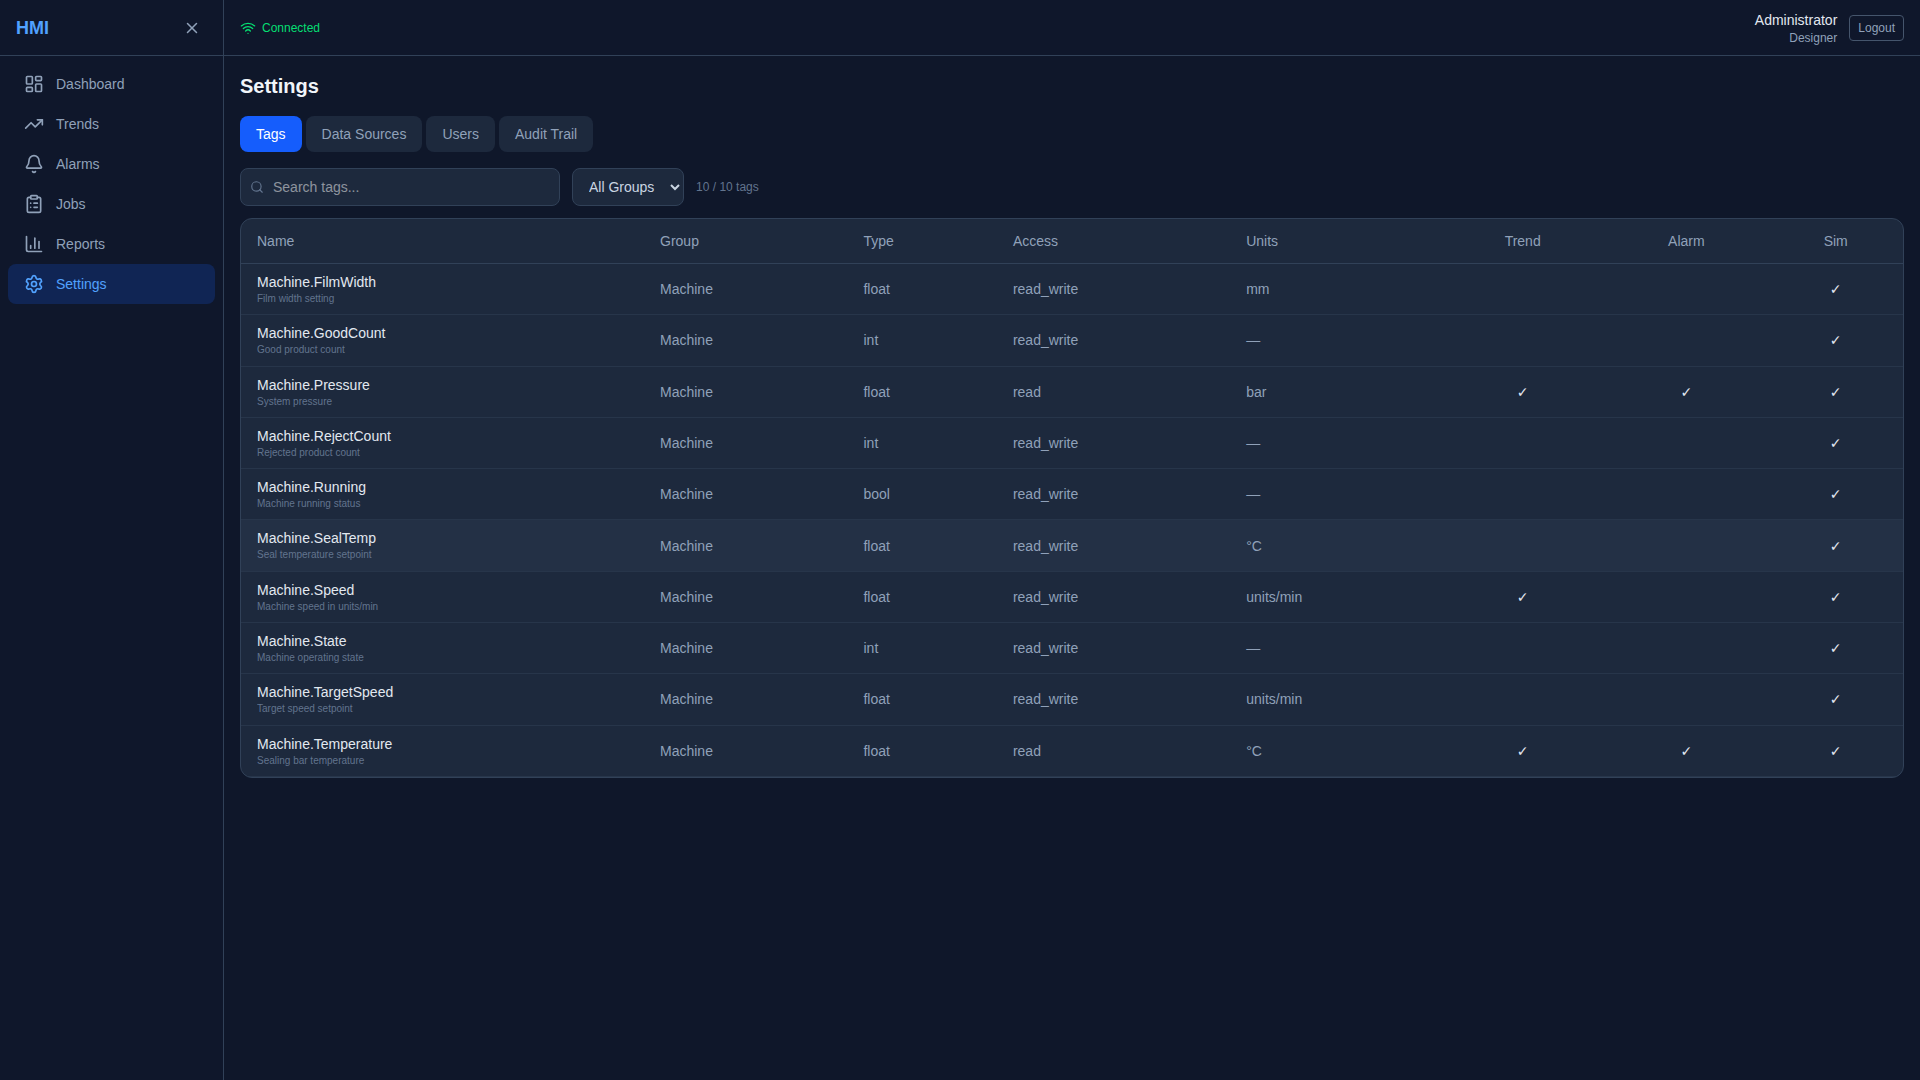
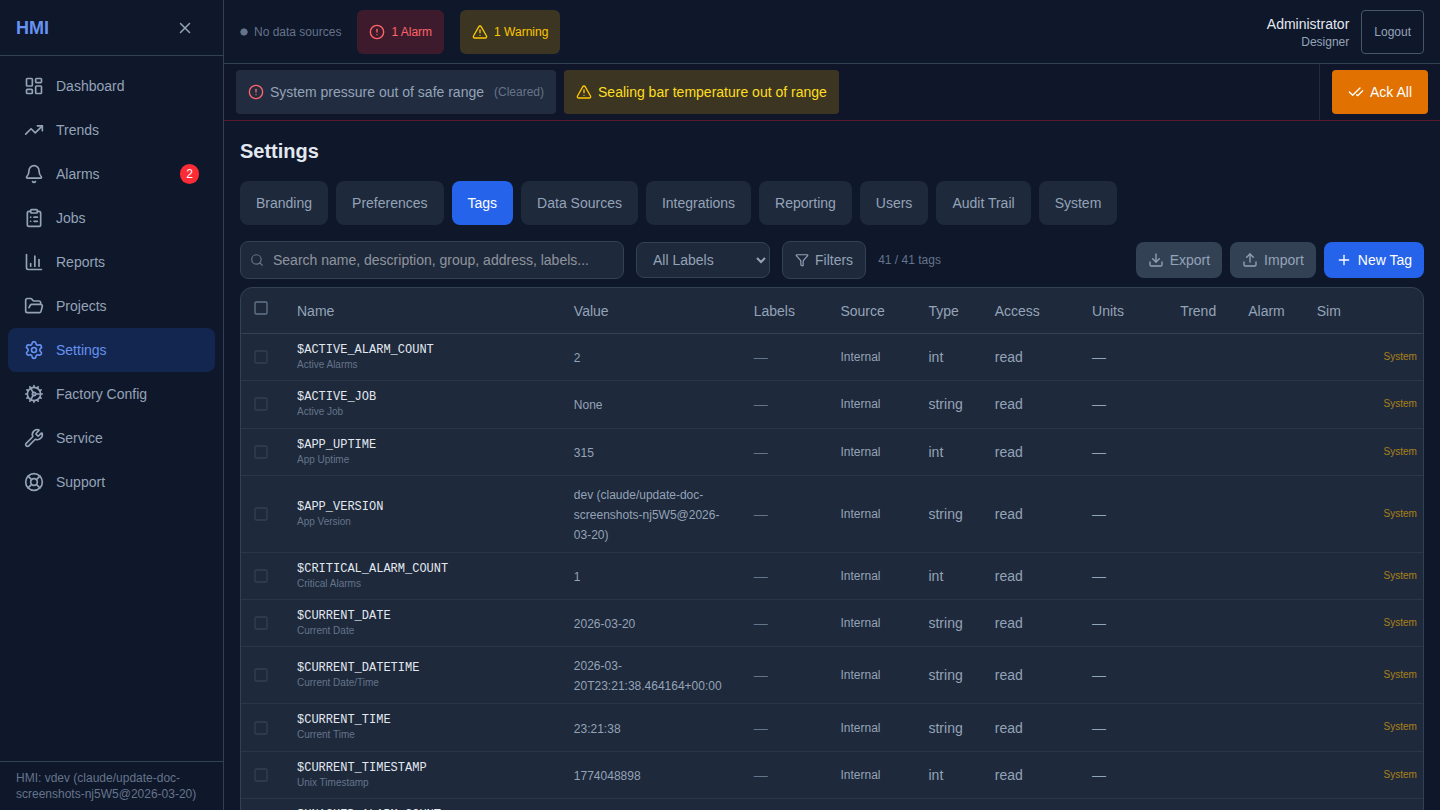
Update documentation screenshots to reflect current UI
Recaptured all 11 existing screenshots with the current application state
showing updated navigation (Projects, Factory Config, Service, Support
sidebar items), alarm banners, and refreshed data. Added 7 new screenshots
for pages added since the original captures: Projects, Service, Factory
Config, Support, Settings — Data Sources, Settings — Integrations, and
Settings — System. Updated README.md screenshot gallery to showcase all
19 views.

https://claude.ai/code/session_01HzQGLqgeuwfDwoTYJRo8e2

diff --git a/README.md b/README.md
@@ -12,13 +12,21 @@ A web-based Human-Machine Interface (HMI) for industrial automation. Connects to
 |:------:|:------:|:----:|
 | ![Alarms](screenshots/02-alarms.png) | ![Trends](screenshots/03-trends.png) | ![Jobs](screenshots/04-jobs.png) |
 
-| Reports | Settings — Tags | Settings — Users |
-|:-------:|:---------------:|:----------------:|
-| ![Reports](screenshots/05-reports.png) | ![Settings Tags](screenshots/06-settings-tags.png) | ![Settings Users](screenshots/12-settings-users.png) |
+| Reports | Projects | Service |
+|:-------:|:--------:|:-------:|
+| ![Reports](screenshots/05-reports.png) | ![Projects](screenshots/10-projects.png) | ![Service](screenshots/17-service.png) |
 
-| Settings — Audit Trail |
-|:-----------------------:|
-| ![Audit Trail](screenshots/11-settings-audit.png) |
+| Settings — Tags | Settings — Users | Settings — Audit Trail |
+|:---------------:|:----------------:|:----------------------:|
+| ![Settings Tags](screenshots/06-settings-tags.png) | ![Settings Users](screenshots/12-settings-users.png) | ![Audit Trail](screenshots/11-settings-audit.png) |
+
+| Settings — Data Sources | Settings — Integrations | Settings — System |
+|:-----------------------:|:-----------------------:|:-----------------:|
+| ![Data Sources](screenshots/13-settings-datasources.png) | ![Integrations](screenshots/14-settings-integrations.png) | ![System](screenshots/15-settings-system.png) |
+
+| Factory Config | Support |
+|:--------------:|:-------:|
+| ![Factory Config](screenshots/16-factory-config.png) | ![Support](screenshots/18-support.png) |
 
 ## Features
 
